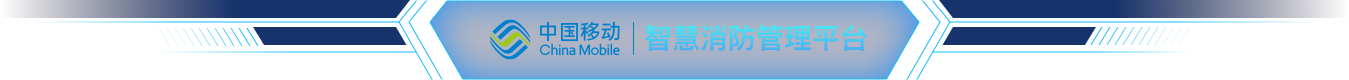
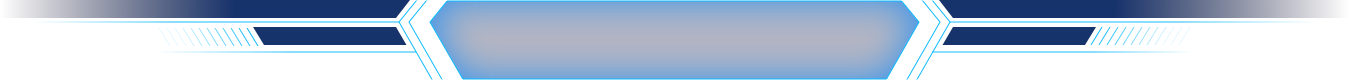
modify

Changed region(s): [[0.3425, 0.25, 0.6538, 0.75]]

diff --git a/src/map.vue b/src/map.vue
@@ -7,7 +7,9 @@
       <div class="canvaszz"> </div>
       <canvas id="starCanvas" ref="starCanvas"></canvas>
       <div class="top">
-        <div class="topimg"></div>
+        <div class="topimg">
+          <div class="demo">地图DEMO</div>
+        </div>
       </div>
       <div class="leftbottom">
         <div class="echartsmap">
@@ -682,6 +684,13 @@ export default {
         height: 80px;
         background: url("./assets/image/castscreentitle.png");
         margin: 0 auto;
+        .demo {
+          margin: 0 auto;
+          font-size: 36px;
+          font-weight: bold;
+          color: #25c4d3;
+          line-height:80px;
+        }
       }
     }
     .lefttop {
@@ -766,8 +775,7 @@ export default {
               display: flex;
               display: -webkit-flex;
               .bartitleicon {
-                background: url("./assets/image/smokeicon.png") 0 0
-                  no-repeat;
+                background: url("./assets/image/smokeicon.png") 0 0 no-repeat;
                 width: 30px;
                 height: 30px;
                 margin-left: 30px;

diff --git a/src/assets/js/echartsMapOption.js b/src/assets/js/echartsMapOption.js
@@ -77,7 +77,7 @@ export const getMapOption = (opt) => {
     nextLevel: opt.nextLevel,
     adcode: opt.mapName,
     backgroundColor: opt.bgColor,
-    geo: {
+    geo3D: {
       map: opt.mapName,
       zoom: 1,
       roam: true,
@@ -142,7 +142,7 @@ export const getMapOption = (opt) => {
       }
     },
     series: [{
-        type: 'map',
+        type: 'map3D',
         map: opt.mapName,
         geoIndex: 0,
         aspectScale: 0.75, //长宽比
